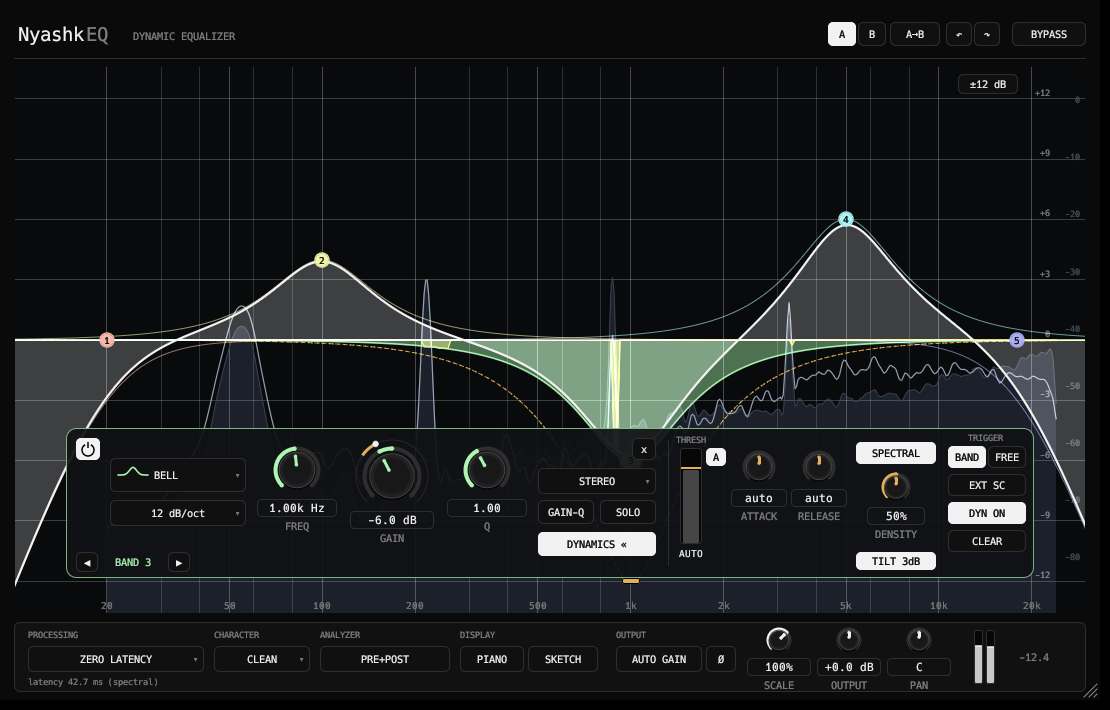
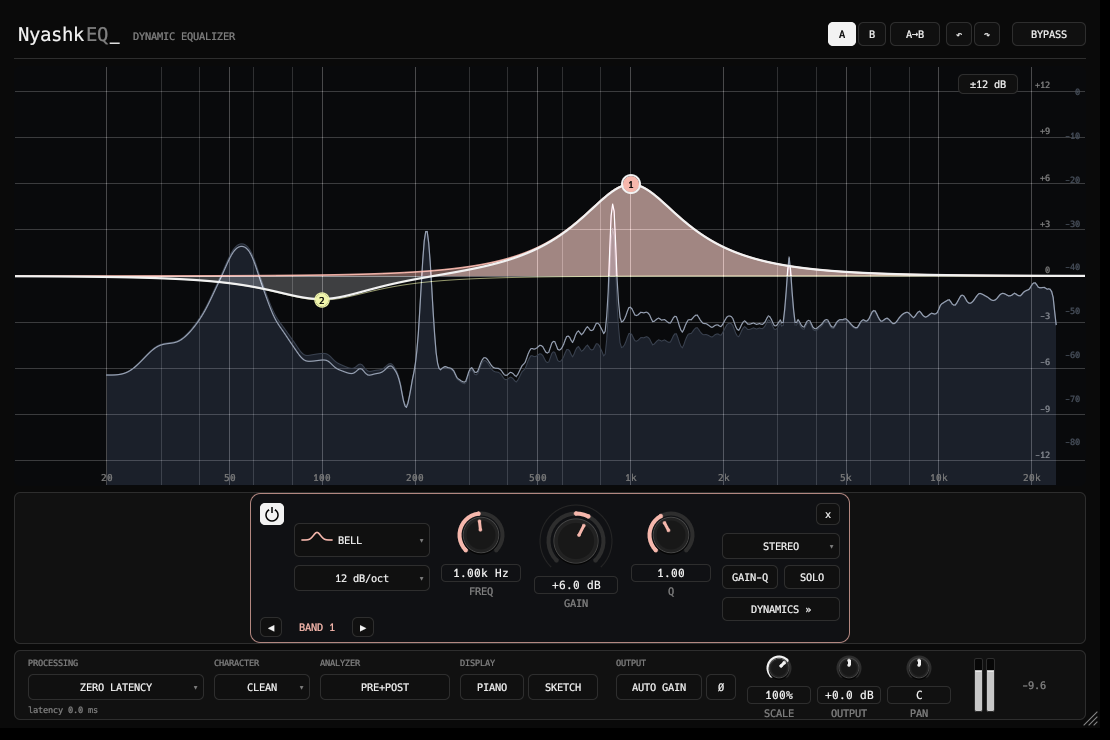
2.0.1: band panel in its own strip under the display, hover button bar on the dots
Claude-Session: https://claude.ai/code/session_013jKKu6QEcWQprfHFTeKF77

diff --git a/plugins/nyashkeq/src/editor.rs b/plugins/nyashkeq/src/editor.rs
@@ -22,7 +22,10 @@ use crate::params::{fmt_hz, AnRange, AnRes, AnSpeed, AnTilt, BandParams, Charact
 use crate::Shared;
 
 pub const BASE_W: f32 = 1100.0;
-pub const BASE_H: f32 = 700.0;
+pub const BASE_H: f32 = 728.0;
+/// top of the band strip and of the bottom bar
+const STRIP_Y: f32 = 492.0;
+const BAR_Y: f32 = 650.0;
 const F_LO: f32 = 10.0;
 const F_HI: f32 = 30000.0;
 const NPTS: usize = 360;
@@ -168,6 +171,8 @@ struct Gui {
     drag: Option<Drag>,
     rubber: Option<Pos2>,
     dyn_open: bool,
+    /// mini toolbar of the dot under the mouse: (band, last time the mouse was on it)
+    hbar: Option<(usize, f64)>,
     pop: Pop,
     sketch_on: bool,
     sketch: Vec<Pos2>,
@@ -508,6 +513,7 @@ pub fn create(params: Arc<EqParams>, shared: Arc<Shared>) -> Option<Box<dyn Edit
             drag: None,
             rubber: None,
             dyn_open: false,
+            hbar: None,
             pop: Pop::None,
             sketch_on: false,
             sketch: Vec::new(),
@@ -615,7 +621,7 @@ pub fn create(params: Arc<EqParams>, shared: Arc<Shared>) -> Option<Box<dyn Edit
                 }
 
                 // ---------------- display
-                let gr = rect(14.0, 66.0, BASE_W - 28.0, 548.0);
+                let gr = rect(14.0, 66.0, BASE_W - 28.0, STRIP_Y - 6.0 - 66.0);
                 let d = Disp { g: gr, range: p.disp.value().db(), an_range: p.an_range.value().db() };
                 let rng = d.range;
                 let painter = ui.painter().clone();
@@ -815,9 +821,10 @@ pub fn create(params: Arc<EqParams>, shared: Arc<Shared>) -> Option<Box<dyn Edit
                     let has_gain = views[i].spec.shape.has_gain();
                     let w = if st.dyn_open && has_gain { 968.0 } else { 600.0 };
                     let h = 150.0;
-                    Rect::from_min_size(Pos2::new(gr.center().x - w * 0.5, gr.bottom() - h - 36.0), Vec2::new(w, h))
+                    // its own strip under the display: never covers the curve
+                    Rect::from_min_size(Pos2::new(o.x + BASE_W * 0.5 - w * 0.5, o.y + STRIP_Y + 1.0), Vec2::new(w, h))
                 });
-                let ana_rect = if st.pop == Pop::Analyzer { Some(rect(300.0, 622.0 - 214.0, 440.0, 206.0)) } else { None };
+                let ana_rect = if st.pop == Pop::Analyzer { Some(rect(300.0, BAR_Y - 214.0, 440.0, 206.0)) } else { None };
 
                 // ---------------- interaction
                 let pointer = ui.input(|i| i.pointer.hover_pos());
@@ -1208,7 +1215,8 @@ pub fn create(params: Arc<EqParams>, shared: Arc<Shared>) -> Option<Box<dyn Edit
                         let gal = painter.layout_no_wrap(txt, mono(10.0), WHITE);
                         let sz = gal.size();
                         let x = (pos.x - sz.x * 0.5).clamp(gr.left() + 4.0, gr.right() - 4.0 - sz.x);
-                        let y = if pos.y - 30.0 > gr.top() { pos.y - 16.0 - sz.y } else { pos.y + 14.0 };
+                        // under the dot (the button bar sits above it); above when there is no room
+                        let y = if pos.y + 16.0 + sz.y < gr.bottom() - 20.0 { pos.y + 14.0 } else { pos.y - 46.0 - sz.y };
                         painter.rect_filled(Rect::from_min_size(Pos2::new(x, y), sz).expand2(Vec2::new(4.0, 2.0)), 3.0, Color32::from_black_alpha(210));
                         painter.galley(Pos2::new(x, y), gal, WHITE);
                     }
@@ -1219,6 +1227,103 @@ pub fn create(params: Arc<EqParams>, shared: Arc<Shared>) -> Option<Box<dyn Edit
                     let rr = Rect::from_center_size(Pos2::new(node_pos(*i).x, y), Vec2::new(18.0, 6.0));
                     painter.rect_filled(rr, CornerRadius::same(2), C_DYN);
                     painter.rect_stroke(rr, CornerRadius::same(2), Stroke::new(1.0_f32, Color32::BLACK), StrokeKind::Inside);
+                }
+
+                // mini toolbar over the hovered dot (like Pro-Q): power, shape, dynamics, solo, delete
+                if let Some(i) = st.hover.filter(|_| st.drag.is_none()) {
+                    st.hbar = Some((i, now));
+                }
+                if let Some((i, t)) = st.hbar {
+                    if !views[i].used || st.drag.is_some() {
+                        st.hbar = None;
+                    } else {
+                        let np = node_pos(i);
+                        let (bw, bh, gap) = (22.0, 20.0, 3.0);
+                        let n_btn = 5.0;
+                        let w = n_btn * bw + (n_btn - 1.0) * gap + 8.0;
+                        let above = np.y - 24.0 - bh - 8.0 > gr.top();
+                        let y = if above { np.y - 22.0 - bh - 8.0 } else { np.y + 20.0 };
+                        let x = (np.x - w * 0.5).clamp(gr.left() + 4.0, gr.right() - 4.0 - w);
+                        let tb = Rect::from_min_size(Pos2::new(x, y), Vec2::new(w, bh + 8.0));
+                        // the gap between the dot and the bar counts as "on it"
+                        let zone = tb.union(Rect::from_center_size(np, Vec2::splat(24.0)));
+                        if pointer.is_some_and(|pp| zone.contains(pp)) {
+                            st.hbar = Some((i, now));
+                        }
+                        if now - t > 0.35 && !pointer.is_some_and(|pp| zone.contains(pp)) {
+                            st.hbar = None;
+                        } else {
+                            let b = &p.bands[i];
+                            let bv = views[i];
+                            let col = band_col(i);
+                            let _ = ui.interact(tb, egui::Id::new("hbar_bg"), Sense::click());
+                            painter.rect_filled(tb, CornerRadius::same(6), Color32::from_rgba_unmultiplied(14, 15, 18, 240));
+                            painter.rect_stroke(tb, CornerRadius::same(6), Stroke::new(1.0_f32, Color32::from_rgba_unmultiplied(col.r(), col.g(), col.b(), 140)), StrokeKind::Inside);
+                            let br = |k: f32| Rect::from_min_size(Pos2::new(tb.left() + 4.0 + k * (bw + gap), tb.top() + 4.0), Vec2::new(bw, bh));
+                            // power
+                            let on = b.on.value();
+                            let r0 = br(0.0);
+                            if tbtn(ui, r0, "", on, "Band on / off").clicked() {
+                                set_b(setter, &b.on, !on);
+                            }
+                            let pc = if on { Color32::BLACK } else { WHITE };
+                            let c0 = r0.center() + Vec2::new(0.0, 1.0);
+                            let arc: Vec<Pos2> = (0..=20)
+                                .map(|k| {
+                                    let a = -std::f32::consts::FRAC_PI_2 + 0.6 + (2.0 * std::f32::consts::PI - 1.2) * k as f32 / 20.0;
+                                    c0 + Vec2::new(a.cos(), a.sin()) * 5.0
+                                })
+                                .collect();
+                            painter.add(egui::Shape::line(arc, PathStroke::new(1.4_f32, pc)));
+                            painter.line_segment([c0 - Vec2::new(0.0, 7.0), c0 - Vec2::new(0.0, 2.0)], Stroke::new(1.4_f32, pc));
+                            // shape (pop-up list)
+                            let r1 = br(1.0);
+                            let sresp = tbtn(ui, r1, "", false, "Shape");
+                            shape_icon(&painter, r1.shrink2(Vec2::new(3.0, 4.0)), bv.spec.shape, col);
+                            let sid = ui.make_persistent_id(("hbar_shape", i));
+                            if sresp.clicked() {
+                                ui.memory_mut(|m| m.toggle_popup(sid));
+                            }
+                            egui::popup_below_widget(ui, sid, &sresp, egui::PopupCloseBehavior::CloseOnClick, |ui| {
+                                ui.set_min_width(130.0);
+                                for sh2 in Shape::ALL {
+                                    if ui.selectable_label(bv.spec.shape == sh2, egui::RichText::new(sh2.short()).font(mono(11.5))).clicked() {
+                                        set_e(setter, &b.shape, sh2);
+                                    }
+                                }
+                            });
+                            if ui.memory(|m| m.is_popup_open(sid)) {
+                                st.hbar = Some((i, now));
+                            }
+                            // dynamics
+                            let r2 = br(2.0);
+                            if bv.spec.shape.has_gain() {
+                                if tbtn(ui, r2, "D", bv.dynamic, "Make the band dynamic / static").clicked() {
+                                    set_f(setter, &b.dyn_range, if bv.dynamic { 0.0 } else if b.gain.value() > 0.0 { 6.0 } else { -6.0 });
+                                }
+                            } else {
+                                painter.text(r2.center(), Align2::CENTER_CENTER, "·", mono(10.0), DIM);
+                            }
+                            // solo (hold)
+                            let r3 = br(3.0);
+                            let solo = tbtn(ui, r3, "S", sh.solo.load(Ordering::Relaxed) == i as i32, "Hold to hear only this band's range");
+                            let cur = sh.solo.load(Ordering::Relaxed);
+                            if solo.is_pointer_button_down_on() {
+                                sh.solo.store(i as i32, Ordering::Relaxed);
+                            } else if cur == i as i32 && !ui.input(|inp| inp.pointer.primary_down()) {
+                                sh.solo.store(-1, Ordering::Relaxed);
+                            }
+                            // delete
+                            if tbtn(ui, br(4.0), "x", false, "Delete the band").clicked() {
+                                delete_band(setter, b);
+                                st.sel[i] = false;
+                                if st.focus == Some(i) {
+                                    st.focus = None;
+                                }
+                                st.hbar = None;
+                            }
+                        }
+                    }
                 }
 
                 // display range (top right)
@@ -1233,6 +1338,13 @@ pub fn create(params: Arc<EqParams>, shared: Arc<Shared>) -> Option<Box<dyn Edit
                     set_e(setter, &p.disp, next);
                 }
 
+                // ---------------- band strip
+                let strip = rect(14.0, STRIP_Y, BASE_W - 28.0, 152.0);
+                panel(ui, strip);
+                if panel_rect.is_none() {
+                    painter.text(strip.center() - Vec2::new(0.0, 12.0), Align2::CENTER_CENTER, "click a dot to edit its band   ·   double-click the display to add one   ·   Alt + double-click: dynamic band", mono(10.5), DIM);
+                    painter.text(strip.center() + Vec2::new(0.0, 10.0), Align2::CENTER_CENTER, "drag: frequency / gain   ·   wheel: Q   ·   Alt + wheel: dynamic range   ·   right-click: menu   ·   double-click a dot: delete", mono(9.5), DIM);
+                }
                 // ---------------- band panel
                 if let (Some(i), Some(pr)) = (st.focus, panel_rect) {
                     let b = &p.bands[i];
@@ -1240,7 +1352,7 @@ pub fn create(params: Arc<EqParams>, shared: Arc<Shared>) -> Option<Box<dyn Edit
                     let col = band_col(i);
                     let has_gain = bv.spec.shape.has_gain();
                     let _ = ui.interact(pr, egui::Id::new("band_panel_bg"), Sense::click_and_drag());
-                    painter.rect_filled(pr, CornerRadius::same(10), Color32::from_rgba_unmultiplied(16, 17, 20, 236));
+                    painter.rect_filled(pr, CornerRadius::same(10), Color32::from_rgb(16, 17, 20));
                     painter.rect_stroke(pr, CornerRadius::same(10), Stroke::new(1.0_f32, Color32::from_rgba_unmultiplied(col.r(), col.g(), col.b(), 110)), StrokeKind::Inside);
                     let at = |x: f32, y: f32, w: f32, h: f32| Rect::from_min_size(Pos2::new(pr.left() + x, pr.top() + y), Vec2::new(w, h));
                     // top corners: band power and delete
@@ -1301,7 +1413,8 @@ pub fn create(params: Arc<EqParams>, shared: Arc<Shared>) -> Option<Box<dyn Edit
                     let ear = tbtn(ui, at(534.0, 72.0, 56.0, 24.0), "SOLO", sh.solo.load(Ordering::Relaxed) == i as i32, "Hold to hear only the part of the spectrum this band works on.");
                     let holding = ear.is_pointer_button_down_on();
                     let cur_solo = sh.solo.load(Ordering::Relaxed);
-                    sh.solo.store(if holding { i as i32 } else if cur_solo == i as i32 { -1 } else { cur_solo }, Ordering::Relaxed);
+                    let mouse_down = ui.input(|inp| inp.pointer.primary_down());
+                    sh.solo.store(if holding { i as i32 } else if cur_solo == i as i32 && !mouse_down { -1 } else { cur_solo }, Ordering::Relaxed);
                     if has_gain && tbtn(ui, at(472.0, 104.0, 118.0, 24.0), if st.dyn_open { "DYNAMICS «" } else { "DYNAMICS »" }, st.dyn_open || bv.dynamic, "Dynamics settings: threshold, attack, release, spectral mode, side chain.").clicked() {
                         st.dyn_open = !st.dyn_open;
                     }
@@ -1383,7 +1496,7 @@ pub fn create(params: Arc<EqParams>, shared: Arc<Shared>) -> Option<Box<dyn Edit
 
                 // ---------------- analyzer pop-up (closes on a click anywhere else)
                 if let Some(ar) = ana_rect {
-                    let btn = rect(320.0, 622.0 + 24.0, 130.0, 26.0);
+                    let btn = rect(320.0, BAR_Y + 24.0, 130.0, 26.0);
                     if ui.input(|i| i.pointer.any_pressed()) && pointer.is_some_and(|pp| !ar.contains(pp) && !btn.contains(pp)) {
                         st.pop = Pop::None;
                     }
@@ -1481,7 +1594,7 @@ pub fn create(params: Arc<EqParams>, shared: Arc<Shared>) -> Option<Box<dyn Edit
                 }
 
                 // ---------------- bottom bar
-                let by = 622.0;
+                let by = BAR_Y;
                 let bar = rect(14.0, by, BASE_W - 28.0, 70.0);
                 panel(ui, bar);
                 let blab = |x: f32, t: &str| painter.text(Pos2::new(o.x + x, o.y + by + 13.0), Align2::LEFT_CENTER, t, mono(8.5), DIM);

diff --git a/RELEASE_NOTES.md b/RELEASE_NOTES.md
@@ -1,3 +1,9 @@
+## NyashkEQ 2.0.1
+
+- Панель смуги тепер в окремій смузі під графіком і більше не закриває криву.
+- При наведенні на точку з'являються кнопки: увімкнення, форма, динаміка, соло (тримати), видалення.
+- Підказка зі значеннями показується під точкою.
+
 ## NyashkEQ 2.0.0
 
 Повністю новий еквалайзер (налаштування з 1.x не переносяться).
